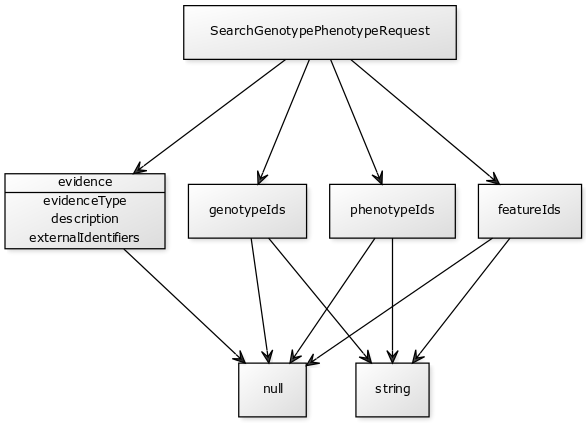
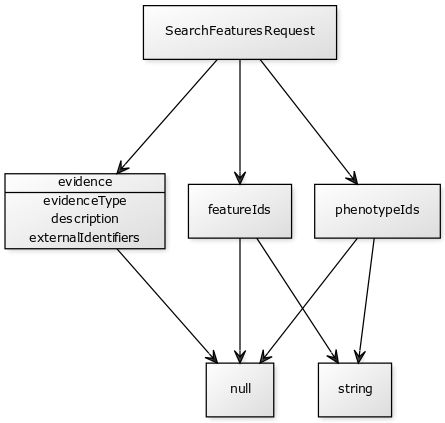
remove traces of /genotypephenotypes/search from graphics and doc

diff --git a/doc/source/api/genotypephenotype.rst b/doc/source/api/genotypephenotype.rst
@@ -166,23 +166,23 @@ Source Code
 ~~~~~~~~~~~
 
 -  `Front
-   End <https://github.com/ohsu-computational-biology/server/blob/g2p-2.0/ga4gh/frontend.py>`__
-   '/genotypes/search', '/datasets/<datasetId>/features/search', '/phenotypes/search',
-   '/genotypephenotypes/search'
+   End <https://github.com/ga4gh/server/blob/g2p/ga4gh/frontend.py>`__
+   '/features/search', '/datasets/<datasetId>/features/search', '/phenotypes/search',
+   '/featurephenotypeassociations/search'
 -  `Back
-   End <https://github.com/ohsu-computational-biology/server/blob/g2p-2.0/ga4gh/backend.py>`__
+   End <https://github.com/ga4gh/server/blob/g2p/ga4gh/backend.py>`__
    'runSearchFeatures', 'runSearchGenotypePhenotypes', 'runSearchPhenotypes',
    'runSearchGenotypes'
--  `Datamodel <https://github.com/ohsu-computational-biology/server/blob/g2p-2.0/ga4gh/datamodel/genotype_phenotype.py>`__
+-  `Datamodel <https://github.com/ga4gh/server/blob/g2p/ga4gh/datamodel/genotype_phenotype.py>`__
    'getAssociations'
-   `Datamodel <https://github.com/ohsu-computational-biology/server/blob/g2p-2.0/ga4gh/datamodel/genotype_phenotype_featureset.py>`__
+   `Datamodel <https://github.com/ga4gh/server/blob/g2p/ga4gh/datamodel/genotype_phenotype_featureset.py>`__
    'getAssociations' (Features)
 
 Tests
 ~~~~~
 
 -  `End to
-   End <https://github.com/ohsu-computational-biology/server/blob/g2p-2.0/tests/end_to_end/test_g2p.py>`__
+   End <https://github.com/ga4gh/server/blob/g2p/tests/end_to_end/test_g2p.py>`__
 
 **Help Wanted:** Any or all use cases and scenarios
 
@@ -281,12 +281,12 @@ regex <https://www.w3.org/TR/xpath-functions/#regex-syntax>`__
 
 --------------
 
-``/genotypes/search``
+``/features/search``
 ~~~~~~~~~~~~~~~~~~~~~
 
 This endpoint is provided to serve features/variants/etc hosted by a g2p
 dataset when it is deployed independently of the sequenceAnnotations
-API. The request and response payloads are similar to
+API. The request and response payloads are identical to
 ``/datasets/<datasetId>/features/search``.
 
 Terms within a query are combined via AND e.g:
@@ -304,12 +304,16 @@ The service returns a list of matching Features.
 Examples:Genotype Lookup
 ^^^^^^^^^^^^^^^^^^^^^^^^
 
+Note:  since we have switched to relying on the features/search API,
+external identifier queries have been deprecated. Refer to features/search documentation.
+
 Q: I have a SNPid ("rs6920220"). Create an External Identifier Query.
 
 ``{… {"ids": [{"identifier": "rs6920220", "version": "*", "database": "dbSNP"}]},  … }``
 
 The endpoint will respond with features that match on external
 identifier. Multiple identifiers are OR'd together.
+
 
 Q: I have an identifier for BRCA1 ``GO:0070531`` how do I query for
 feature? Create an OntologyTerm query:
@@ -332,7 +336,7 @@ See sequence annotations `documentation <sequence_annotations.html>`__.
 
 --------------
 
-``/genotypephenotypes/search``
+``/featurephenotypeassociations/search``
 ~~~~~~~~~~~~~~~~~~~~~~~~~~~~~~
 
 The endpoint accepts a SearchGenotypePhenotypeRequest POST. The request
@@ -406,7 +410,7 @@ Use cases
    (e.g. genes) which are associated with the sensitivity of GIST to
    imatinib. Suppose I am specifically interested in a gene, *KIT*,
    which is implicated in the pathogenesis of several cancer types. I
-   could submit a query to ``/genotypephenotype/search`` with GIST as
+   could submit a query to ``/featurephenotypeassociations/search`` with GIST as
    the phenotype, *KIT* as the feature, and
    ``clinical study evidence <http://purl.obolibrary.org/obo/ECO_0000180>``\ \_\_
    as the evidence.
